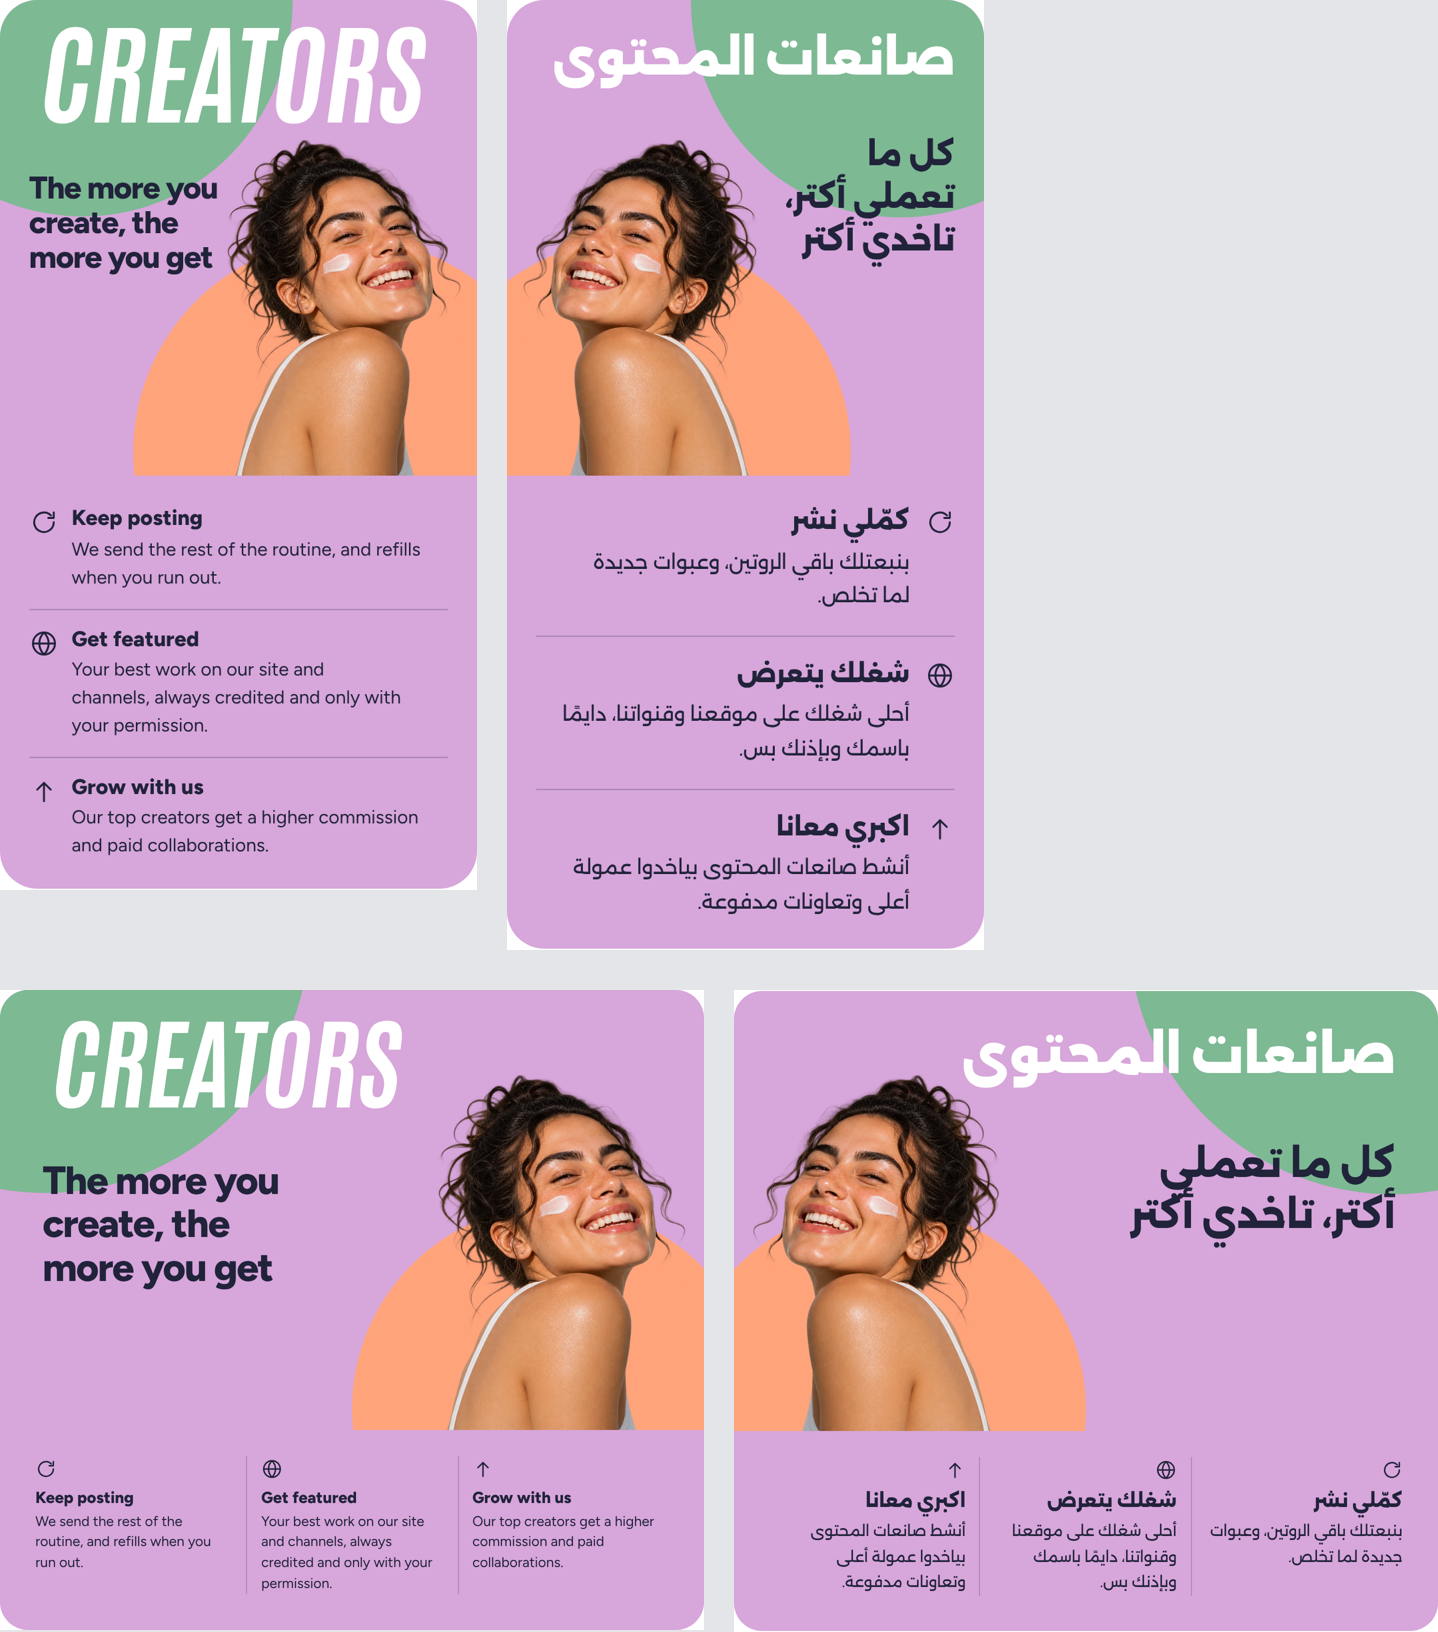
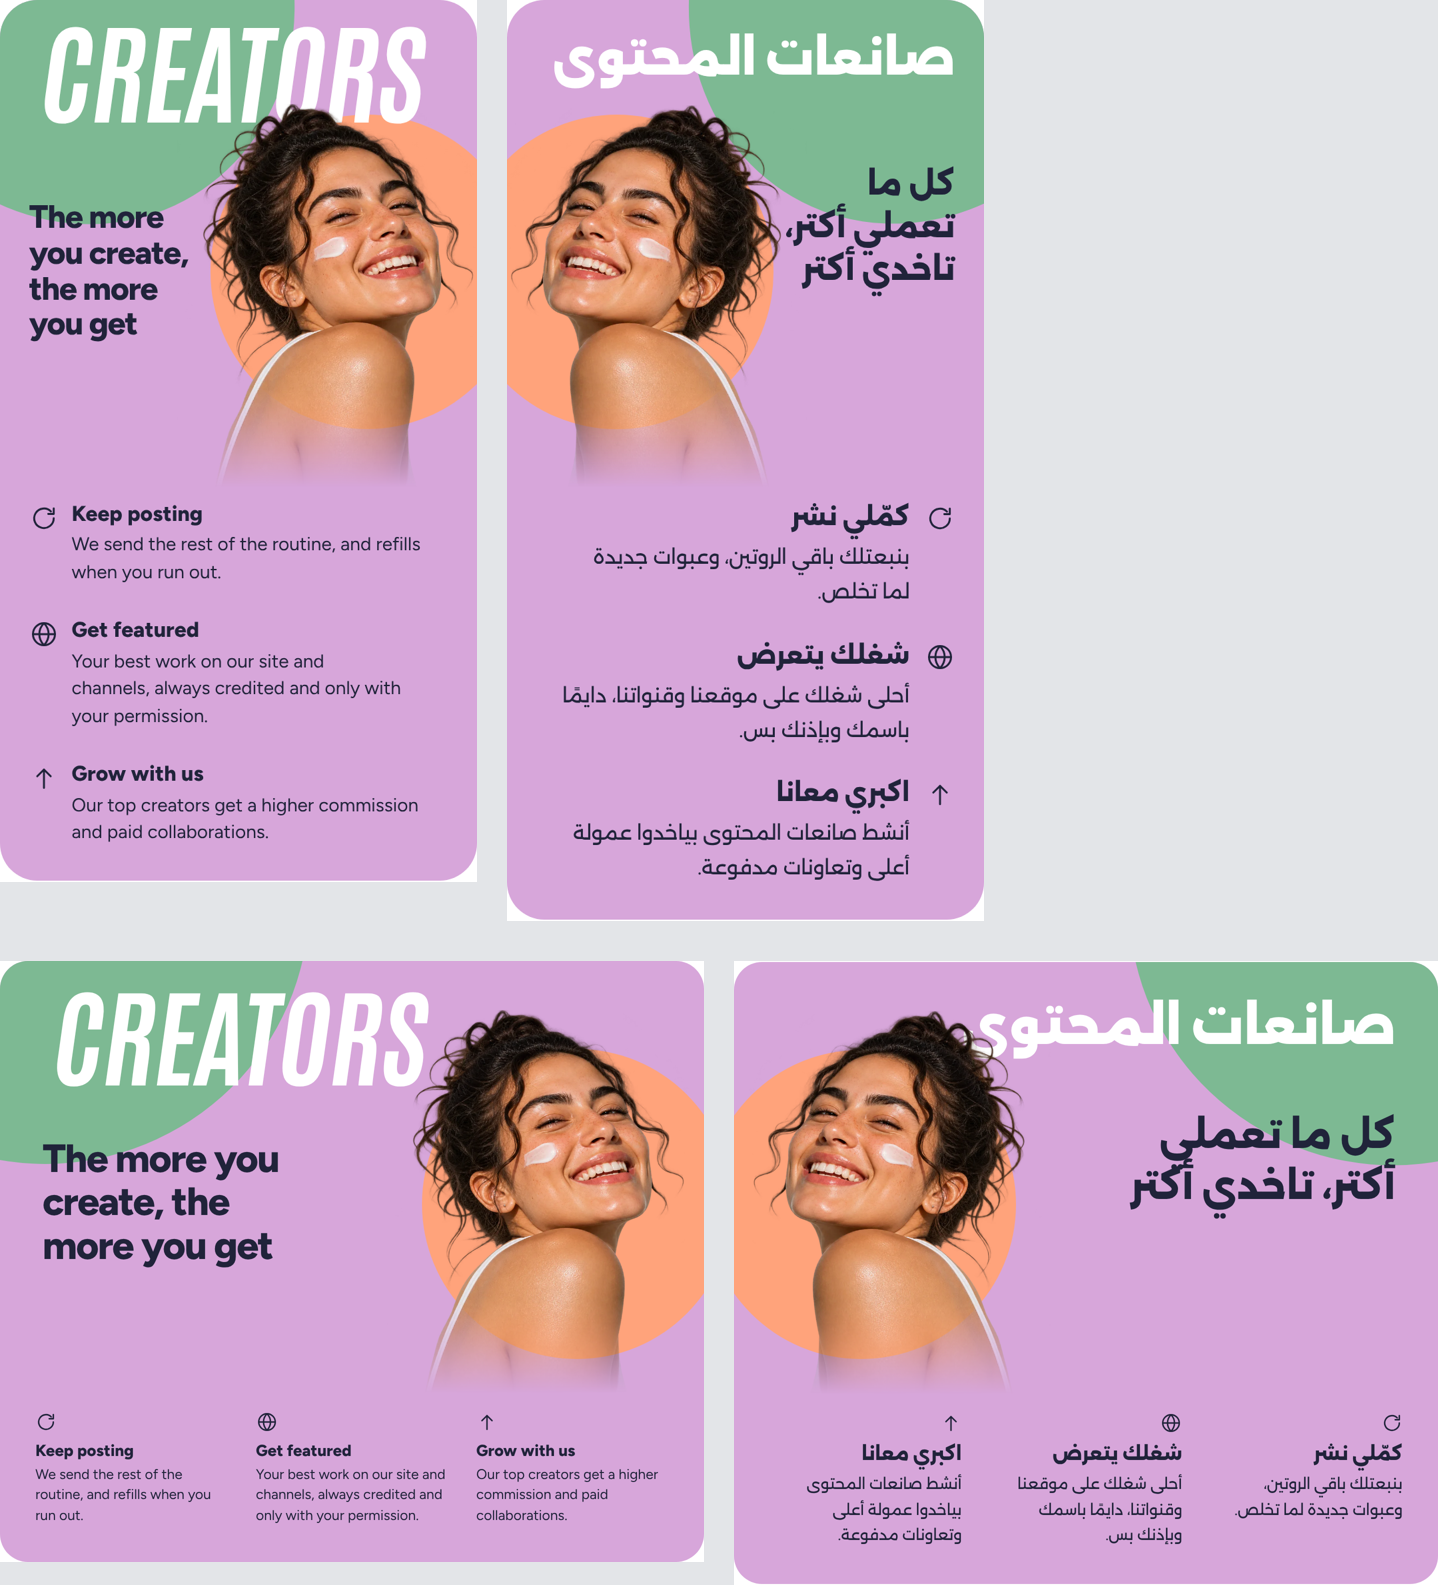
Creators campaign block: phone/tablet round 2, fade, round sun, no lines (DECISIONS 384)
Claude-Session: https://claude.ai/code/session_01LtDGGg3Ak7XqciGhd3kvRD

diff --git a/theme/assets/creators.css b/theme/assets/creators.css
@@ -263,32 +263,36 @@
 }
 @media (max-width: 989px) { .cr-grow--lab::before { inset-block-start: -150px; inset-inline-end: -90px; inline-size: 300px; } }
 
-/* E · Campaign block (owner's creative-lab design, DECISIONS 382–383). Laptop (990px+) is the owner's design as is.
-   Below 990px it is laid out again, mobile first, sized to the card's own width (cqi):
-   the big word across the top; the headline in the open space beside her; she sits inside the peach sun, which is cut
-   flat at the bottom of the picture like a sun on the horizon; the three perks under the picture. */
+/* E · Campaign block (owner's creative-lab design, DECISIONS 382–384). Laptop (990px+) is the owner's design as is.
+   Below 990px, mobile first, sized to the card's own width (cqi): the big word across the top; her head overlaps it a
+   little (poster depth, word still readable); she fades out at the bottom (owner liked this); a clean round peach sun
+   behind her head and shoulders; the headline in the open space beside her; the perks separated by space, no lines. */
 @media (max-width: 989px) {
   .creators--v2 .cl-grow, .creators--v2 .cl-grow:lang(ar) { display: block; position: relative; container-type: inline-size; }
-  .creators--v2 .cl-grow__visual, .creators--v2 .cl-grow:lang(ar) .cl-grow__visual { position: relative; overflow: hidden; block-size: auto; aspect-ratio: 1 / 1; }
-  .creators--v2 .cl-grow__type { inset-block-start: 5cqi; inset-inline-start: 6cqi; inline-size: 88cqi; }
+  .creators--v2 .cl-grow__visual, .creators--v2 .cl-grow:lang(ar) .cl-grow__visual { position: relative; overflow: hidden; block-size: auto; aspect-ratio: 1 / 1.04; }
+  .creators--v2 .cl-grow__type { z-index: 2; inset-block-start: 5cqi; inset-inline-start: 6cqi; inline-size: 88cqi; }
   .creators--v2 .cl-grow__type-ar { font-size: 9.6cqi; line-height: 1.2; white-space: nowrap; transform: none; }
-  .creators--v2 .cl-grow__arc--peach, .creators--v2 .cl-grow:lang(ar) .cl-grow__arc--peach { rotate: 0deg; inline-size: 90cqi; block-size: 90cqi; inset-inline-end: -18cqi; inset-block-end: -40cqi; }
-  .creators--v2 .cl-grow__arc--peach { z-index: 1; }
-  .creators--v2 .cl-grow__portrait { z-index: 3; inset-block: auto 0; inset-inline-end: 1cqi; inline-size: 56cqi; block-size: 72cqi; -webkit-mask-image: none; mask-image: none; }
+  .creators--v2 .cl-grow__arc--peach, .creators--v2 .cl-grow:lang(ar) .cl-grow__arc--peach { z-index: 1; rotate: 0deg; inline-size: 66cqi; block-size: 66cqi; inset-inline-end: -10cqi; inset-block-end: 14cqi; }
+  .creators--v2 .cl-grow__portrait { z-index: 3; inset-block: auto 0; inset-inline-end: -2cqi; inline-size: 65cqi; block-size: 88cqi;
+    -webkit-mask-image: linear-gradient(#000 0 74%, transparent 98%); mask-image: linear-gradient(#000 0 74%, transparent 98%); }
   .creators--v2 .cl-grow__portrait img, .creators--v2 .cl-grow:lang(ar) .cl-grow__portrait img { object-fit: contain; object-position: center bottom; }
-  .creators--v2 .cl-grow__copy, .creators--v2 .cl-grow:lang(ar) .cl-grow__copy { display: block; position: static; margin: 0; padding: 22px 6cqi 6cqi; }
-  .creators--v2 .cl-grow__heading, .creators--v2 .cl-grow:lang(ar) .cl-grow__heading { position: absolute; z-index: 4; inset-block-start: 36cqi; inset-inline-start: 6cqi; inline-size: 40cqi; max-inline-size: none; min-block-size: 0; margin: 0; display: block; font-size: 6.6cqi; line-height: 1.1; letter-spacing: -0.03em; text-wrap: balance; }
-  .creators--v2 .cl-grow:lang(ar) .cl-grow__heading { inset-block-start: 28cqi; line-height: 1.4; letter-spacing: 0; font-size: 6.4cqi; }
-  .creators--v2 .cl-grow:lang(ar) .cl-grow__benefits { margin: 0; padding: 0; }
+  .creators--v2 .cl-grow__copy, .creators--v2 .cl-grow:lang(ar) .cl-grow__copy { display: block; position: static; margin: 0; padding: 4px 6cqi 7cqi; }
+  .creators--v2 .cl-grow__heading, .creators--v2 .cl-grow:lang(ar) .cl-grow__heading { position: absolute; z-index: 4; inset-block-start: 42cqi; inset-inline-start: 6cqi; inline-size: 36cqi; max-inline-size: none; min-block-size: 0; margin: 0; display: block; font-size: 6.8cqi; line-height: 1.1; letter-spacing: -0.03em; text-wrap: balance; }
+  .creators--v2 .cl-grow:lang(ar) .cl-grow__heading { inset-block-start: 34cqi; inline-size: 42cqi; line-height: 1.4; letter-spacing: 0; font-size: 6.4cqi; }
+  .creators--v2 .cl-grow__benefits, .creators--v2 .cl-grow:lang(ar) .cl-grow__benefits { margin: 0; padding: 0; gap: 22px; }
+  .creators--v2 .cl-grow__benefits li + li, .creators--v2 .cl-grow:lang(ar) .cl-grow__benefits li + li { border: 0; padding-block-start: 0; }
 }
 /* tablets and narrow laptop windows: a wider picture, the perks in three columns */
 @media (min-width: 640px) and (max-width: 989px) {
   .creators--v2 .cl-grow__visual, .creators--v2 .cl-grow:lang(ar) .cl-grow__visual { aspect-ratio: 16 / 10; }
-  .creators--v2 .cl-grow__type { inset-block-start: 4cqi; inline-size: 54cqi; }
+  .creators--v2 .cl-grow__type { inset-block-start: 4cqi; inline-size: 58cqi; }
   .creators--v2 .cl-grow__type-ar { font-size: 7cqi; }
-  .creators--v2 .cl-grow__arc--peach, .creators--v2 .cl-grow:lang(ar) .cl-grow__arc--peach { inline-size: 58cqi; block-size: 58cqi; inset-inline-end: -8cqi; inset-block-end: -26cqi; }
-  .creators--v2 .cl-grow__portrait { inline-size: 40cqi; block-size: 54cqi; inset-inline-end: 1cqi; }
-  .creators--v2 .cl-grow__heading, .creators--v2 .cl-grow:lang(ar) .cl-grow__heading { inset-block-start: 24cqi; inline-size: 46cqi; font-size: 5.6cqi; }
+  .creators--v2 .cl-grow__arc--peach, .creators--v2 .cl-grow:lang(ar) .cl-grow__arc--peach { inline-size: 44cqi; block-size: 44cqi; inset-inline-end: -4cqi; inset-block-end: 6cqi; }
+  .creators--v2 .cl-grow__portrait { inline-size: 44cqi; block-size: 56cqi; inset-inline-end: 1cqi; }
+  .creators--v2 .cl-grow__heading, .creators--v2 .cl-grow:lang(ar) .cl-grow__heading { inset-block-start: 25cqi; inline-size: 46cqi; font-size: 5.6cqi; }
   .creators--v2 .cl-grow:lang(ar) .cl-grow__heading { inset-block-start: 21cqi; font-size: 5.2cqi; }
-  .creators--v2 .cl-grow__copy, .creators--v2 .cl-grow:lang(ar) .cl-grow__copy { padding: 26px 5cqi 5cqi; }
+  .creators--v2 .cl-grow__benefits, .creators--v2 .cl-grow:lang(ar) .cl-grow__benefits { grid-template-columns: repeat(3, minmax(0, 1fr)); gap: 0 4cqi; }
+  .creators--v2 .cl-grow__benefits li, .creators--v2 .cl-grow:lang(ar) .cl-grow__benefits li { display: block; padding: 0; border: 0; }
+  .creators--v2 .cl-grow__benefits .icon { margin-block-end: 8px; }
+  .creators--v2 .cl-grow__copy, .creators--v2 .cl-grow:lang(ar) .cl-grow__copy { padding: 8px 5cqi 5cqi; }
 }

diff --git a/DECISIONS.md b/DECISIONS.md
@@ -1467,3 +1467,4 @@ Each entry: decision · why · reversibility. Newest last.
 381. **Creators perks block, option D "Lilac with photo", built from the owner's creative-lab mock and uploaded as a demo (`/pages/creators?view=creators6` on Version 1.2).** Owner: "I still didn't like it that much, what do you think of the attached". The mock was on theme 169130459394 "ChatGPT - creative lab"; from it I took only the cut-out photo, which already lives in store Files as bts-creative-lab-creator-cutout.png (the owner said "just grab that, nothing else"). Kept from the mock: the lilac panel, a mint sun in the top corner, the portrait on a peach sun. Changed to fit the site: the headline is "THE MORE YOU CREATE, THE MORE YOU GET" in the upright tall face in ink (no slanted "CREATORS" label, no white text on lilac); three perks with no divider lines; on phones the photo sits under the text, never behind the headline. New section settings: grow_look option "lab" and image picker creative_lab_portrait (empty = that file). Files: creators.css de2d5bf0…, creators.liquid 30147b41…, page.creators6.json 99f64114…; remote matched before the overwrite; live index unchanged; real store EN + AR OK. The preview server now knows that photo's size. Open: rights to the photo (stand-in vs. a real person) before launch.
 382. **Creators perks block: the owner's own "creative lab" design copied into Version 1.2 as a demo (`/pages/creators?view=creators7`). The owner preferred it to my lilac rebuild: "the other one looks better, white title, just overall looks better designed". The owner answered "Yes" to copying it.** Copied from theme 169130459394 "ChatGPT - creative lab", unchanged: assets/creative-lab-creators.css (byte-identical, 5674f497…) and snippets/creative-lab-grow.liquid. Two changes to the snippet: the portrait fallback uses if/blank instead of `default`, and the optional per-perk text overrides are dropped (the locale text is used). Also copied: creators.js hides the phone "Apply" bar while the block is on screen. New locale key creators.grow_display: "CREATORS" / "صانعات المحتوى" (taken from the owner's screenshots). It is wired in as a new grow_look option "campaign" (with v2); its stylesheet loads only then. My only fixes, phones only (in creators.css under `.creators--v2 .cl-grow`): the big word sits clear above the portrait (it was hidden behind her head in English and cut by her hair in Arabic), and the headline moves under the artwork at full width instead of a squeezed column beside her. The laptop look is exactly the owner's. Kept as the owner designed: the slanted white word and the thin lines between perks (offered to change; no answer, so left as theirs). Files on 1.2: en e720313b…, ar 89d2e965…, creators.css 13784ae6…, creative-lab-creators.css 5674f497…, creators.js 076d6037…, creative-lab-grow 65ca4ac7…, creators.liquid 171be3ab…, page.creators7.json f9f249d6…; remote matched before the overwrite; live index unchanged; real store EN + AR fetched OK; the real /pages/creators is unchanged. Note: the upload tool's staged policy can be rebuilt from key, date and signature (tools: scratch mk.py pattern).
 383. **Creators campaign block made properly responsive (owner, from phone and narrow-laptop photos: "The responsiveness is terrible… the girl goes out of the peach… the title 'The more you create' needs to go up to fill the left side… this is a mobile first site").** Laptop (990px+) is still exactly the owner's design. Below 990px it's laid out again in creators.css (`.creators--v2 .cl-grow`, sized to the card width with container units): a square picture on phones (16:10 from 640–989px); the big word across the top on one line (Arabic nowrap, 9.6cqi); the headline moved up into the open space beside her (start side, 40–46cqi wide); she sits inside the peach circle, which is cut flat at the picture's bottom edge like a sun on the horizon, so she no longer spills over the lilac; the perks start right under the picture (one column on phones, three from 640px). Checked at 360, 390, 430, 768 and 900px, EN and AR. creators.css bc8d843e… on Version 1.2; live index unchanged. Picture: review/creators-campaign-responsive.png.
+384. **Creators campaign block, phone and tablet round 2 (owner: liked the model fading to transparent in their own version; "I need this to be a ten on mobile and tablet").** I took the best of both versions. From the owner's: her hair overlaps the bottom of the big word (poster depth, the word stays readable) and she fades out at the bottom (mask 74%→98%). From mine: the headline in the open space beside her, mobile-first sizing in cqi. New: a clean round peach sun behind her head and shoulders (no lemon shape, not cut at the bottom); the perks separated by space with no divider lines on phones and tablets; three columns from 640px. Arabic headline column widened (42cqi) so no word sits alone. Laptop is unchanged (the owner's design). creators.css ae22f097… on Version 1.2; live index unchanged.

diff --git a/CLAUDE.md b/CLAUDE.md
@@ -4,7 +4,7 @@ You are continuing a long-running build. This file is the handover: who the owne
 what was done and why, and exactly what to do next. **DECISIONS.md** (numbered log, newest at the bottom) and **STATUS.md**
 (current state, restore points, launch checklist) hold the detail; this file tells you how to use them.
 
-**Next DECISIONS entry number: 384.** Add one entry per round of work and keep STATUS.md current.
+**Next DECISIONS entry number: 385.** Add one entry per round of work and keep STATUS.md current.
 
 ---
 
